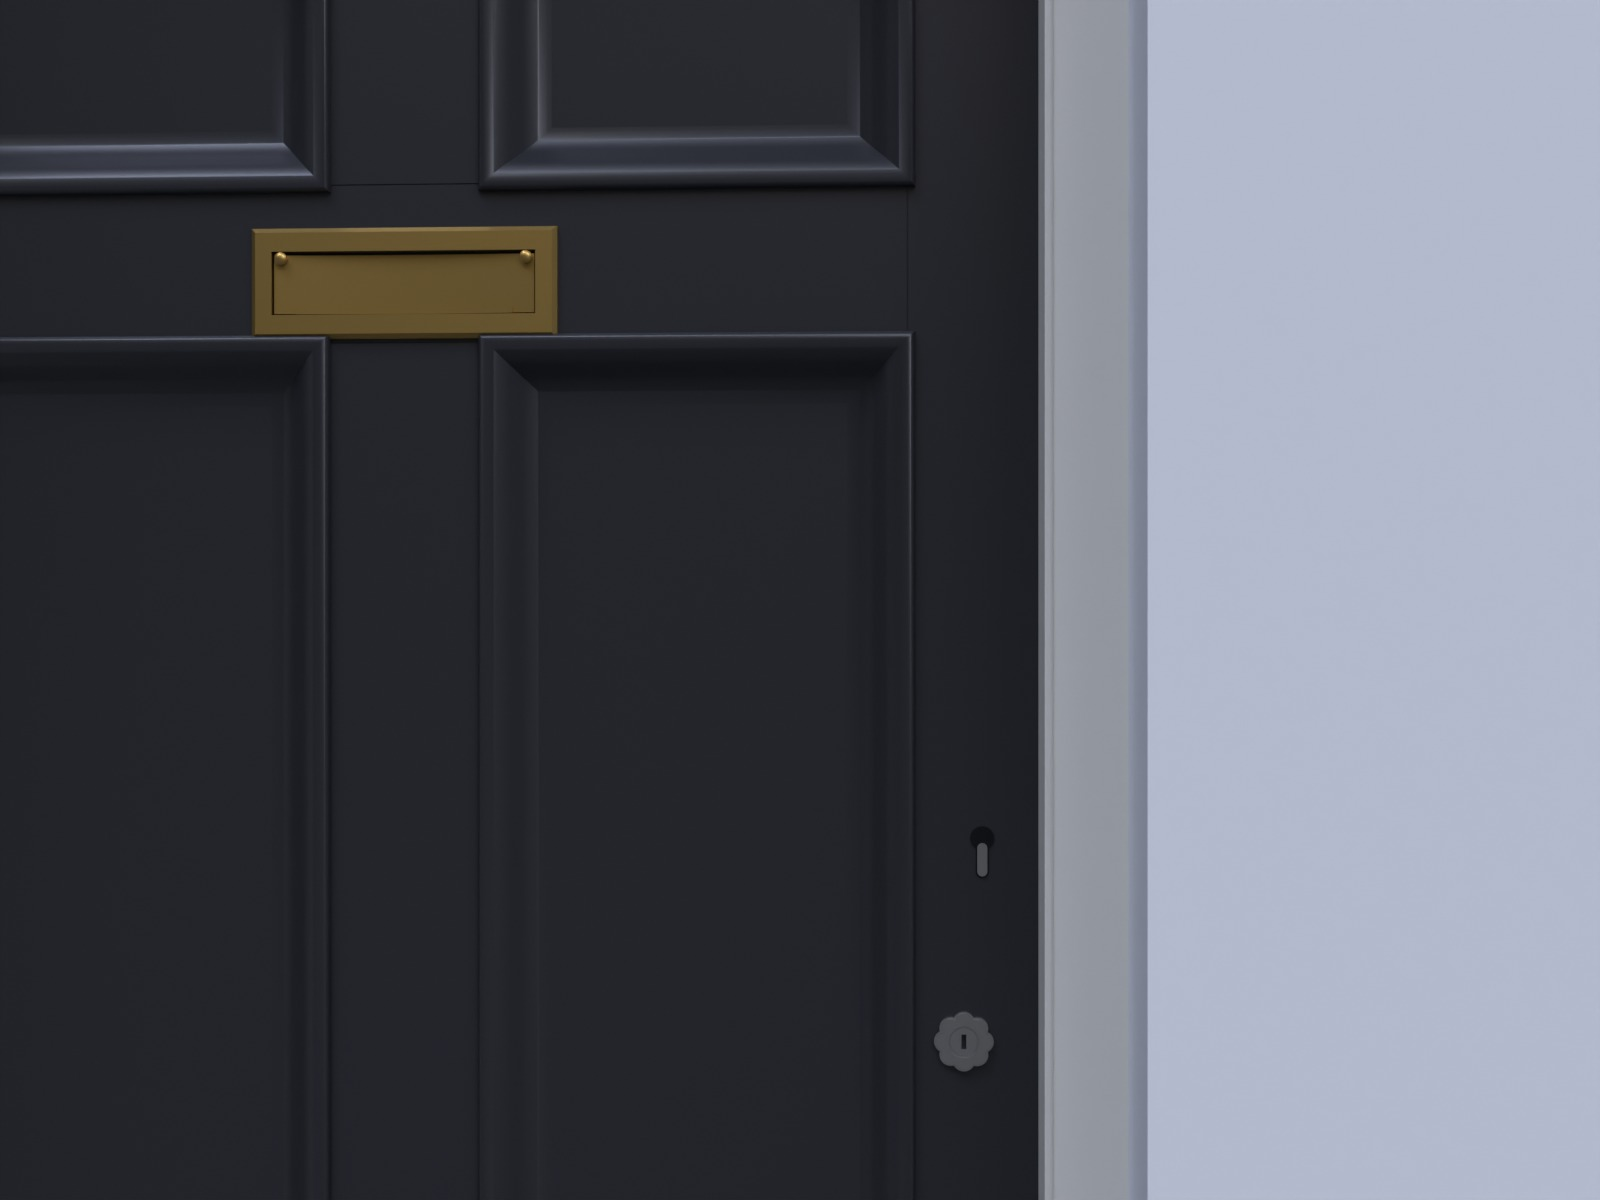
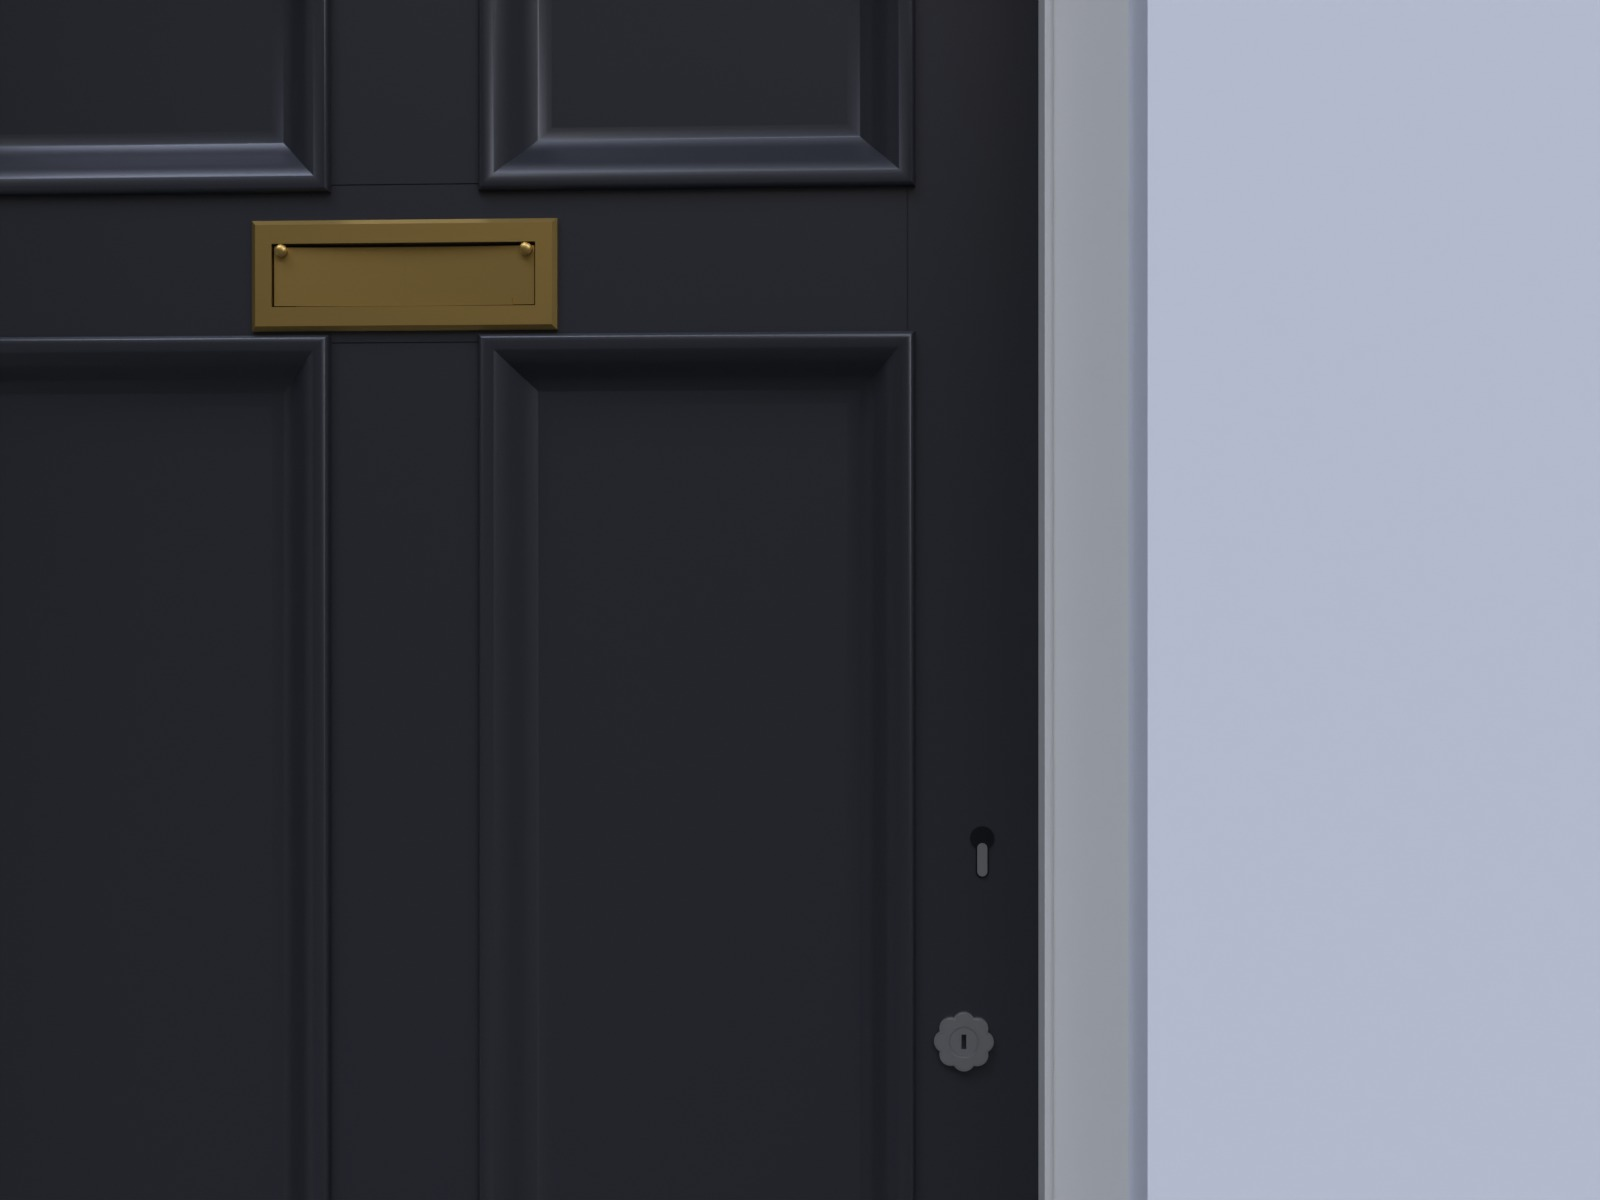
Cloud week 42, unit 9 built: ten door kinds, 29 fittings, twelve houses and four hill doors (522 of 523 rows, 53 of 53 wrong copies caught), before its fresh reviews
The 3.1 door's bell push is now one plain dark part (no bezel, no button). One row fails on purpose: T3's border, where the target and its own outlines disagree.

Claude-Session: https://claude.ai/code/session_016WoLPSCSZCiXXEjj4xjmdm

Changed region(s): [[0.1562, 0.2467, 0.3438, 0.3083], [0.1562, 0.1542, 0.3438, 0.2158]]

diff --git a/DECISIONS.md b/DECISIONS.md
@@ -542,3 +542,10 @@ binding, is in production/archive/DECISIONS-to-2026-09-24.md with its records.
 - 13 Oct 11:28 (cloud week 42, unit 12 fixes): The Tommy rung is credited correctly: the what-they-call-him design keeps it for two or three people, ever, and for nobody in the first week; canon names none. This replaces the wording of the unit 12 entry on greetings, which credited canon, and DECISIONS.md is append-only. One replacement in the review ('The Tivoli, in the Parade. Up the hill, a long way east.') is twelve words against the unit's cap of eleven, so the line reads 'Tivoli, in the Parade. Up the hill, a long way east.'. Reason: the review's L9; the cap is the order's 'under twelve words'. Link: production/cloud-week/lines/NOTES.md. Marked for Jafar.
 - 13 Oct 11:30 (cloud week 42, unit B5 fixes): The first thirty minutes draft is corrected after its canon review: beat A16 no longer tells the newcomer the fire's truth; Hal's coin shop is marked NOT YET because it has no unit on the built street, and the stage text names the built west row; Darren speaks from nine o'clock game time, the hint times follow FirstMoments.cs, the save falls in the morning and the wait stops are marked; Sheila is said to have heard of the window, not seen it; Ellis's arrival is marked unmeasured (whether three people pass talk of his nights by Thursday needs TownReach on route A's sightings). Question Q2 and decision D2 now wait until he has met the town's first news story in the game, as his ruling of 29 September says. Reason: the canon review's fault 3, fault 4 and narrow points D1 to D8. Link: production/cloud-week/first-30-minutes/DRAFT.md (check_draft.py: 64 rows, 25 damaged copies, all caught). Marked for Jafar.
 - 13 Oct 12:06 (cloud week 42, unit 12 and B5 fixes, second pass): Fifteen ambient lines that claimed a standing the simulation might not hold are replaced by neutral lines of the same voice, in place and with the same conditions: what the street has said, heard, expected or waited for, or says of him (eight lines), a vacancy nobody set (one), what he has done in the town (two), what was said of his name before (two) and a window a speaker may not have (two). Two lines stay, a dock worker's "Heard you came with one suitcase" and a casual worker's "Heard you've a rank to run", because each claims only what a StreetFacts.cs fact says and every named member of the kind holds that fact (canon: the suitcase and the letter, Mickey's with the rank outside). The check now has each kind of claim as its own pattern with its own planted fault, and lets a "heard you" line stand only where a street fact holds it for the whole kind (2,500 of 2,500 rows, 62 of 62 planted faults; 2,491 and 54 before). In the first thirty minutes draft, beat B12 no longer sends Tom into Hal's shop, which has no unit on the built street: it is Rita's pawn at four o'clock (her answer "I'll look at it. Looking costs you nothing.") and then the cafe; beat A16 no longer lists Hal or his shop; section 3.3 says 14 people in both routes, and 15, not 16, wait for a body or card in route B (64 of 64 rows, 25 of 25 damaged copies caught). Reason: the first fixer reported eleven such lines and left the draft's Hal beat for review; RULINGS 25 Sep (a character says only what the simulation knows) and 3 Oct (the west row's trades). Link: production/cloud-week/REVIEW-canon-11-12-B5-FIXES-2.md. Marked for Jafar.
+- 13 Oct 18:40 (cloud week 42, unit 9 build): The door furniture is built as separate parts (29 files, each with its origin at its mounting point on the leaf's face, standing 0.4 mm into it) and the ten kinds carry none of it; no leaf is cut for a fitting any more (the 3.1 leaf's slot behind its plate, its lock bore, its rose recess and its keyhole recess are gone), a letter plate carries its own dark liner, and the plugged keyhole is a raised dark plate with a pale blank instead of a 2 mm recess. Reason: the brief asked for furniture placed per house by data, and one leaf per kind must serve every house; the cost is that the keyhole will stand proud in raking light. Link: production/cloud-week/kit/front-doors-all/NOTES.md (Part by part against the 3.1 door).
+- 13 Oct 18:40 (cloud week 42, unit 9 build): Only frame sets T and F exist: the planted-stop frame variant and its frame change are not built, because FIXES-APPLIED.md deletes them (F6 stands in frame F, an inward-opening 838 leaf lapping 20.4), and the 28 variants the target lists are all built (plus the stacked form of NM1 that T1's two digits need), not the 25 of the brief. Reason: FIXES-APPLIED.md wins over the older brief where they differ. Link: production/cloud-week/targets/front-doors-all/FIXES-APPLIED.md.
+- 13 Oct 18:40 (cloud week 42, unit 9 build): Where the target's own numbers disagree the kit is built to the numbers a photograph or the passed 3.1 door gives, and the row that cannot then pass is left failing with its evidence in NOTES.md: the moulding rings are compared with the 3.1 bolection's 4.8 lap (the drawing's ring starts at the opening's edge; the literal ring is an extra); T3's second cove lies 14 mm inside the inner outline (the profile list puts it 13.5 mm further in); F7's ledges are 16 thick so the leaf is 38 (the target's 25 plus the boards' 22 is 47); the scraper's scroll follows the point list (inward) although the words say outward; PL-T3-members (border 65, where the outlines give 62.5) is the one required row that fails. Reason: a row passed by building to its tolerance would hide a contradiction the target's owner should see. Link: production/cloud-week/kit/front-doors-all/NOTES.md (Where the target is wrong).
+- 13 Oct 18:40 (cloud week 42, unit 9 build): House numbers on four doors are placeholders: T1 "34" (stacked), F2 "246", T2 "21", F3 "15", drawn in a small stroke font of the kit's own; none is canon, none is a real address, and the numbers on the photographs (69, 178) are not used. Reason: the target fixes only the forms and says the digits are the town's; the pictures need some digits to draw. Link: production/cloud-week/kit/front-doors-all/doors_furniture.py (NUMBERS), houses.json "numbers". Marked for Jafar.
+- 13 Oct 18:40 (cloud week 42, unit 9 build): The three conditions travel as roughness on the door paint (0.35, 0.55, 0.65), a wear parameter set (conditions.json: the flake shares, fade, chips, kick marks, polish, and what the 4.5 layer covers and does not) and, for a neglected door, the eroded notch as geometry (25 high, 130 wide, 3 deep at the hinge side, lined with bare grey wood); F4 and F7 carry it, and kept copies of both exist (the hill's doors are kept). No vertex colour is written. Reason: the target asks for the notch as a build parameter and the roughness as a material; a gradient across a leaf of a few large faces would not carry a splash band, and the marks are the layer's masks. Link: production/cloud-week/kit/front-doors-all/conditions.json.
+- 13 Oct 18:40 (cloud week 42, unit 9 build): The street's doors are data, not assemblies: houses.json is the target's table with each fitting's mount point and mirror, the target's neighbour and facing rules are one function (doors_street.rules) that the check re-runs on the table and on a mixed sample, and mix_new_street fills new houses (deterministic for a seed, found on the 274th try for seed 1); the hill's twelve doors take kind and paint only. F2's letter plate is moved 5 mm up (v 1550, inside the target's 8 mm tolerance) because at the target's 1545 its foot lies 2.5 mm on the long panels' moulding lip; the move is written beside the fitting in houses.json. Reason: the brief asked for a script that mixes per house so that no two neighbours match; the plate's move was found on the first full-size close picture and a row (FIT) now looks for it. Link: production/cloud-week/kit/front-doors-all/doors_street.py.
+- 13 Oct 18:40 (cloud week 42, unit 9 build): The 3.1 door's bell push is fixed first, as the handover said: door_T1.glb is rebuilt without the bezel and the button, the oblong is square-cornered (r 1) with its groove 14 x 2 x 1, and the 3.1 check's rows for it are re-aimed (T1 165 of 165 required rows, check_v3.json); in this kit the push is the one-part furniture BL1, placed on west_south_bay2 only. Reason: the two-part push read as a modern video doorbell in the 3.1 close review. Link: production/cloud-week/kit/door/build_door.py, check_door.py, departures.py.

diff --git a/production/cloud-week/kit/front-doors-all/NOTES.md b/production/cloud-week/kit/front-doors-all/NOTES.md
@@ -135,7 +135,22 @@ The target fixes the forms of the numbers (NM1, NM3, NM6) and says the digits ar
 
 ## Renders and the two fresh reviews
 
-RESULT_RENDERS
+The pictures are in `production/previews/cloud-week/front-doors-all/` (29 JPEGs, the largest 305 KB, all under 500 KB), named `<kind>-<view>-v1-2026-10-13.jpg` for the kind's first house and `<kind>-<view>-<house>-v1-2026-10-13.jpg` for the others. Every one is 1600 x 1200 at 64 samples, Cycles on the CPU, the shared overcast sky (`LEDGER_REVIEW_HDRI`), the 3.1 door's review wall behind (brick, quoins and arch for the T kinds, the painted pilaster for the F kinds; never in a file), the dark closing face and the dark hall behind the glass.
+
+* **Street and close for each of the ten kinds, in its first house:** T1 west_south_bay2, T2 west_south_bay0, T3 west_south_bay1, F1 east_parade_bay0, F2 east_parade_bay1, F3 west_north_bay1, F4 east_parade_bay3, F5 east_chandler_bay0, F6 east_parade_bay4, F7 west_north_bay2 (20 pictures).
+* **Two more houses of F1,** the one kind with three houses in the street: east_parade_bay2 (Rita's door, navy, kept) and west_north_bay0 (maroon, kept), street and close (4 pictures). The other kinds have one house in the street table (T1, T2, T3, F3 to F7) or two (F2: east_parade_bay1 and the hill's e1), so each other kind is shown in its one house, and the hill gives a second look at four of them.
+* **The hill's doors, street view only,** kept, no fittings (the PC drops step and fittings there): F4 w1, T1 w2, F2 e1, F3 w0 (4 pictures).
+* **One aid:** `T2-close_left` (HD3's bar pull on the left stile, the reveal beside it) because the gate's close view looks at the lock side only.
+
+Times (four cores shared with another builder's renders, every command niced, one render at a time, a house's two views in one run): 617 to 757 s a house for street and close (twelve houses, 671 s on average, about 5.6 minutes a view); 308 to 396 s for a hill door's street view; 481 s for the aid; F2 was rendered twice (the first time with the plate at the target's 1545, see Judgements; its second run is the one kept, 637 s). About 2.9 hours of rendering for the pictures kept. Smaller aid renders of single views (fewer samples) were used earlier to place fittings and cameras; none is kept.
+
+I looked at every picture at full size. Seen and corrected: F2's plate on the moulding lip (first close view; now clear of both mouldings). Looked for and not found in any picture: a firm's name or mark, people, children, drink or betting, a legible house number or plate other than the four fictional numerals of this kit (T1 "34", F2 "246", T2 "21", F3 "15").
+
+**What the two fresh reviewers should look at first.**
+
+* **Street (every kind at the gate's street camera):** T2's leaded fanlight and the lit net cards behind the four lights (D3 shows nets); T3's two embossed panels, which are faint at that distance (is the cove readable?), and its flat-headed small light; F7's boards, V joints and 18 nails, and the eroded notch at the lower hinge-side edge of F4 and F7 (the two neglected doors); the boot scraper beside T1's step; F6's reeded transom and its turquoise; F4's three lights; that no two neighbours in the street's order are alike (the order is data: `houses.json`).
+* **Close:** T1's plain one-part bell push with its groove (the 3.1 fault, fixed first); the letter plates with their dark liners; F1 and F2's knob, scalloped collar and plugged keyhole (a raised dark plate, not a recess: it will read differently in raking light); T3's coves and lever; F2's plate against the two panels' mouldings (it must clear both); F5's bead and slit and the hairline; F6's plate, lever, lock and spyhole; F7's nails, thumb latch and the V joints.
+* **Not in the pictures:** wear (only roughness and the notch), the street frames of the gate (hook camera, reverse view, street at night: they need the street scene), and the frame sets other than T and F (the planted-stop frame is deleted by FIXES-APPLIED.md).
 
 ## Owed to the PC
 
@@ -143,4 +158,4 @@ Import the kinds and the fittings by the held-props route (HANDOVER.md, "How a p
 
 ## HANDOVER line
 
-RESULT_HANDOVER
+| 9 (part 2) | The front doors for every house kind: ten kinds (cottage T1 to T3, flat F1 to F7) in two frames, with 29 separate fittings (letter plates LP1 to LP7, handles HD1, HD2a to c, HD3, HD4, rim night latches LK1 to LK3, keyhole KH1, knockers KN1 and KN2 and bell pull BL2 held in reserve, bell push BL1, number forms NM1 (and its stacked form), NM2 to NM6, boot scraper BS1) placed per house by data; the street's twelve houses and the hill's twelve doors in `houses.json` with every mount point; the 15 paints and three conditions as materials and a wear parameter set; a mixer so that no two neighbours match; the 3.1 door's bell push fixed first (one plain dark part with a groove) | production/cloud-week/kit/front-doors-all/ (build_doors.py rebuilds everything by one command in about 12 seconds; NOTES.md), production/assets/cloud-week/front-doors-all/ (door_*.glb, furniture/*.glb, houses.json, paints.json, conditions.json, manifest.json: 3.1 MB, every file under 1 MB), production/previews/cloud-week/front-doors-all/ (29 pictures) | checks/check_doors_v1.json: 522 of 523 rows pass; the one that fails is PL-T3-members (the target's border 65 against 62.5 in its own outlines); 44 of 59 extras pass (reasons in NOTES.md); 53 of 53 wrong copies caught; kit/door/checks/check_v3.json: 165 of 165 for T1 | two fresh reviews (street, close) ordered, not yet done | Import the kinds and the fittings by the held-props route; place each fitting at `mount_m` in its kind's frame; mirror those marked `mirror_x`; set paint and roughness per house from `houses.json`; wear layer masks per condition; a dark hall behind every door and the game's glass; a water bar behind the foot gap; the four house numbers are placeholders (T1 "34", F2 "246", T2 "21", F3 "15"), the town's digits are owed. The keyhole stands proud, not sunk. F2's letter plate is 5 mm above the target's number so that it clears the moulding. The target's own contradictions (T3 border, the moulding ring's lap, T3's second cove, F7's thickness, the scraper's scroll, the reeded glass's thickness) are in NOTES.md with the numbers; the brief's 25 variants are 28 in the target and 29 here (the stacked NM1) |

diff --git a/RECIPE.md b/RECIPE.md
@@ -19,6 +19,15 @@ A notebook, not a project (Jafar, 13 October 2026). Its purpose: no lesson we le
 
 ## Notebook
 
+### 13 Oct 2026, unit 9 build: ten door kinds and 29 fittings from one passed door's script, the street's paints, conditions and fittings as data, a 523-row check
+- Made: production/cloud-week/kit/front-doors-all/ (one command, about 12 seconds): ten door kinds in two frames (three cottage kinds, seven flat and side-door kinds), 29 furniture parts (letter plates, handles, rim night latches, a keyhole, number forms, a bell push, a boot scraper, knockers and a bell pull held in reserve), a house table for the street's twelve doors and the hill's twelve with every fitting's mount point, the 15 paints and three conditions as materials and a wear parameter set, a mixer that fills new houses so that no two neighbours match, 29 review pictures, and the 3.1 door's bell push fixed first (the two-part push deleted).
+- Method (setting-free): subclass the passed piece's own builder so its frame, glazing and step stay as built and only the new leaves are made from the target's numbers; take every fitting out of the leaf and make it its own part with its origin at its mounting point, so one leaf serves every house and a table of mount points (data) says what stands where, and give a fitting what it needs (a plate its own dark liner) instead of cutting the leaf; sweep one moulding profile mitred round any outline (a rectangle, a raked head, an arched head); cut a stepped or coved recess with lofted cutters so a profile the photograph shows is geometry; merge many small bars into one part by boolean so no two parts share a face plane; write the street as data with its rules as a function, and a mixer that satisfies the same function for houses not yet in the table; compare each kind with the target's drawing as what shows from the street (the nearest part wins) and read the openings as holes in sections of the slab at set depths; run every record of the target on the mesh and measure photograph features on the mesh as fractions of the visible face; keep a wrong copy for every kind of row, count a crash as a miss, and list the target's own contradictions as rows that fail, with the numbers beside them, rather than building to pass. Render one view at a time, niced, with the review wall of the passed piece.
+- Tools: Blender 5.2 as a Python module (exact booleans, glTF export, Cycles on the CPU), shapely, numpy, scipy, PIL; ray casting on the triangles for the 60 degree rows; the shared outline tool for IoU and outline distance.
+- Target and check: check_doors_v1.json, 523 rows, 522 pass (the one that fails is a number of the target that its own outlines contradict, left failing with its evidence; 44 of 59 extras pass); the 162 records of the target are rows of it; 53 of 53 wrong copies caught.
+- Cost (hours): builder about 4.6 hours elapsed from 14:10 to 18:45 UTC (about 2.9 of them rendering), at about 5.6 minutes a view for 29 views at 1600 x 1200 and 64 samples on four cores shared with another builder (about 11 minutes a house, one render at a time, niced); the check runs in about 5 minutes with its wrong copies.
+- Failed and why: (1) a 6 mm lead came compared at 0.5 mm a pixel fell to IoU 0.94 because the raster fattens each edge by half a pixel: thin and small parts are compared at 0.25. (2) A hairline cut as four overlapping boxes left the flush leaves open (not closed): one ring-shaped cutter fixed it. (3) Faces sharing a plane were found only by the shared-plane row: a scraper's blade and standards, the flutes' ends and the glazing bead, a brace and its ledges, a came and the bead: each fixed by an offset of 0.1 to 0.6 mm. (4) A profile compared by vertical difference let a bolection 10 mm too narrow through because the moulding's own closing edge lay on the profile: compare against the surface only. (5) Controls crashed on a missing house or a dropped part: the rows now fail instead of raising. (6) The first full-size close view of F2 showed its letter plate lying on the long panels' moulding lip; the target's plate height (1545) leaves 2.5 mm of overlap with the 3.1 bolection lap, so the plate was moved 5 mm up inside its 8 mm tolerance (a first move of 3 mm still left one pixel row on the lip) and the move written beside it. Found by looking at the picture, not by any row; a row now tests each fitting's front view against the leaf's raised mouldings and beads and against the other fittings, and a wrong copy (the plate back at 1545) must fail it. (7) The target's drawing of a moulding ignores the lap the passed build gives it, a T3 number (border 65) has no feature in its own outlines, and its profile list puts a cove 13.5 mm from its drawn outline: each is a row or an extra that fails with its numbers, and a line in NOTES.md.
+- Evidence: production/cloud-week/kit/front-doors-all/NOTES.md, checks/check_doors_v1.json (rows and controls), production/previews/cloud-week/front-doors-all/
+
 ### 13 Oct 2026, unit 7 stage 1: one shopfront with a room behind its glass, built to a target, through three rounds of fresh review
 - Made: a shop front assembled from kit parts with its sign, door and side door; the room behind the glass as one projected picture per lighting state; the near metre as real meshes; gate renders from four cameras by day and night; a 61-row automatic check; before-and-after pictures against the approved room.
 - Method (setting-free): write the exact target first and have it reviewed; build by one command; project the room onto a card with the engine's own projection function (imported, never rewritten) so the check is pixel for pixel; keep the near metre real and the far room a picture, with stand-off rules saying what may be painted on a surface; render the review views the way the game will show them. Each round of fresh reviews (one per view, never bundled) produces exact fixes; the builder keeps a list "for the next shops" of every fault found, so the next builds start with them. Where two reviews disagree, follow the review whose view the thing is seen from and write why. A stand-in light or glass in the cloud's gate must never be visible in the picture or it hides the real result. Measure a condition on what the camera shows, not on the part's own numbers.
